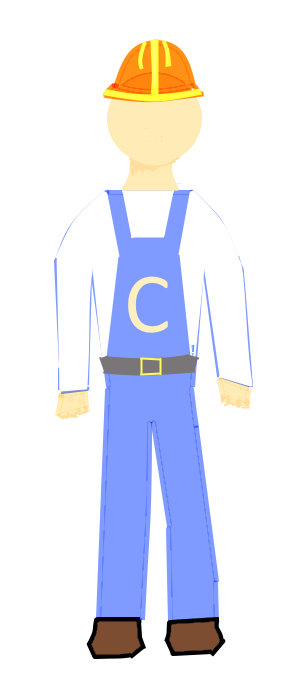
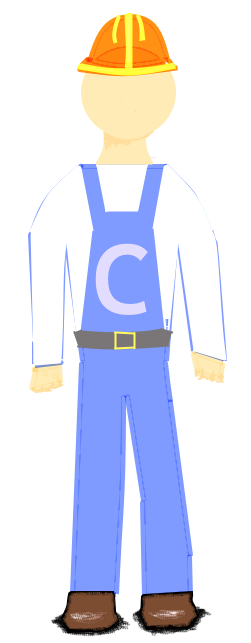
images - carpenters update

diff --git a/src/animation/ImgResources.java b/src/animation/ImgResources.java
@@ -8,10 +8,10 @@ import java.io.IOException;
 
 public class ImgResources {
     public static final String DIR_IMAGES = System.getProperty("user.dir") + "\\images\\";
-    /** original: 450x750 px */
+    /** original: 251x643 px */
     public static final String IMG_PATH_CARPENTER_A = DIR_IMAGES + "stolar-A.png";
-    public static final int WIDTH_CARPENTER = 65;
-    public static final int HEIGHT_CARPENTER = 145;
+    public static final int WIDTH_CARPENTER = 55;
+    public static final int HEIGHT_CARPENTER = 135;
     /** original: 450x750 px */
     public static final String IMG_PATH_CARPENTER_B = DIR_IMAGES + "stolar-B.png";
     /** original: 450x750 px */
